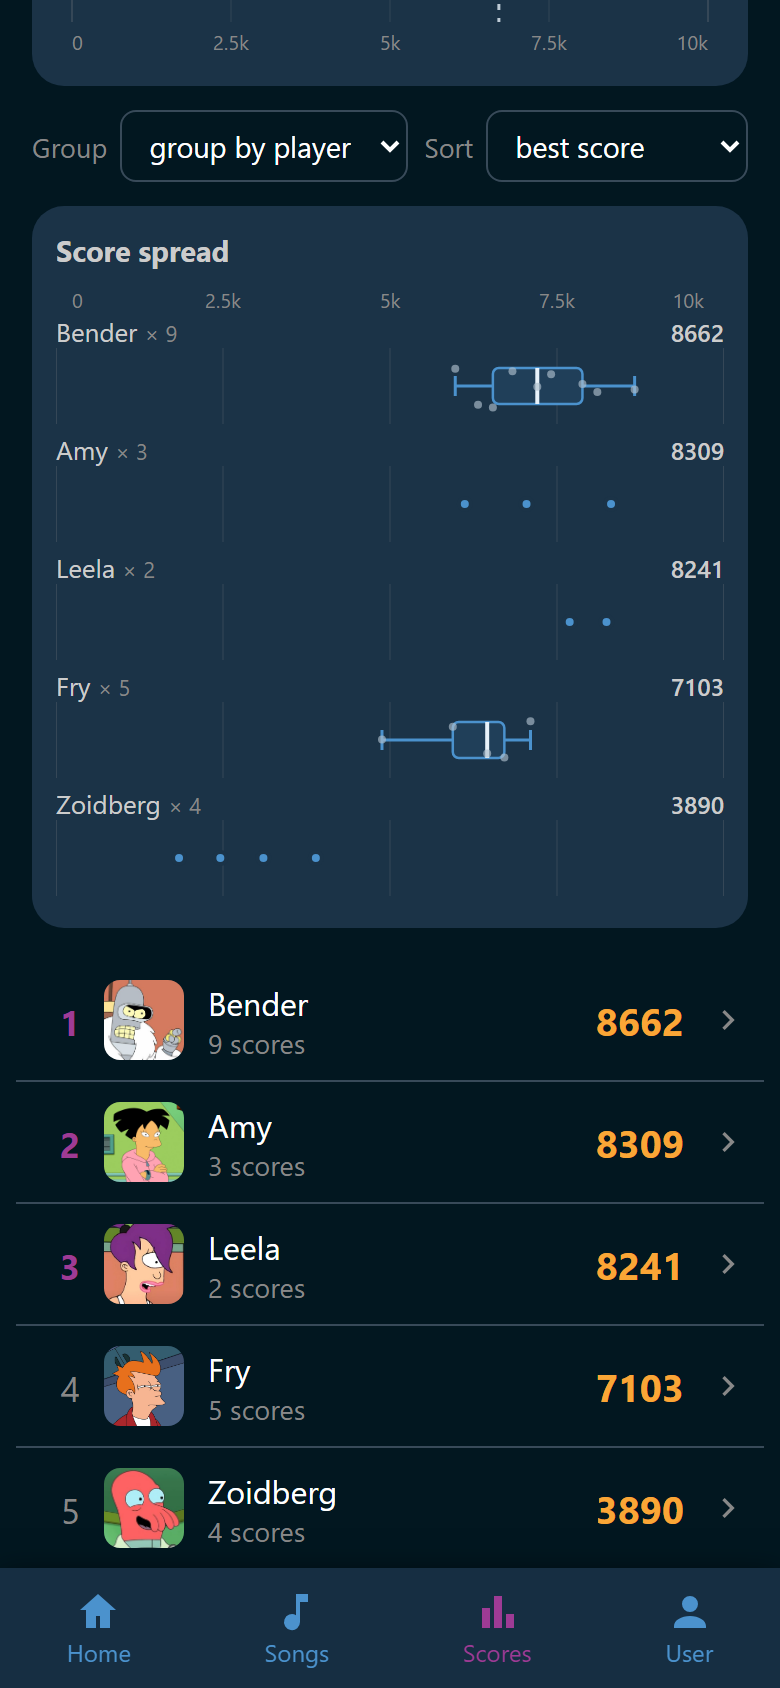
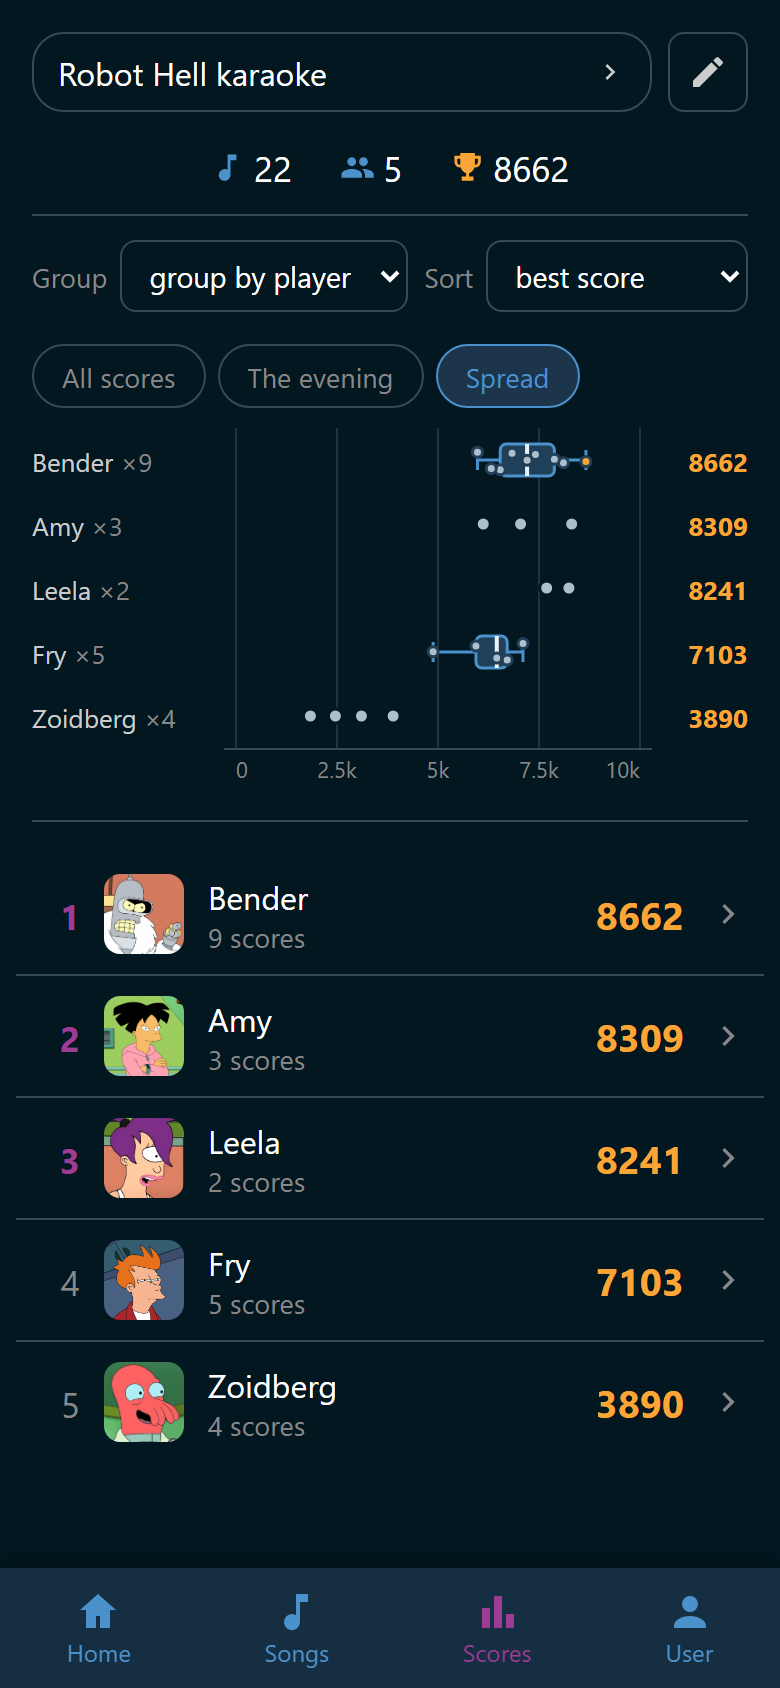
docs(scores): describe the one flat chart area and retake its screenshots
The UI guidelines drop the scores chart cards from the tile list and
describe the switcher; the party, your-scores and song pages follow the
new layout; the scores-spread capture clicks the Spread pill. The
party, spread and user-stats screenshots are retaken.

diff --git a/docs/screenshots/capture.py b/docs/screenshots/capture.py
@@ -693,10 +693,9 @@ ROWS: dict[str, Row] = {
         route="/scores",
         steps=(
             (
-                # Ungrouped, which is the picture this row is of: the page opens grouped by
-                # player, and the spread card that grouping brings with it fills the screen
-                # between the strip chart and the score rows. Grouped by player is the next
-                # row's own picture.
+                # Ungrouped, which is the picture this row is of: the plain All scores strip
+                # with the evening beside it and no Spread pill. Grouped by player, with
+                # Spread picked, is the next row's own picture.
                 'setValue(qa(".scores-control select")[0], "none")',
                 'qa(".scores-control select")[0].value === "none"',
             ),
@@ -708,8 +707,15 @@ ROWS: dict[str, Row] = {
         identity="host",
         viewport="phone",
         route="/scores",
+        steps=(
+            (
+                # The chart area opens on All scores; the spread is the third pill.
+                "click(q('.scores-chart-switch input[value=\"spread\"]'))",
+                'q(".spread-rows") && qa(".spread-row").length >= 2',
+            ),
+        ),
         ready='q(".spread-rows") && qa(".spread-row").length >= 2',
-        scroll='show(byText(".scores-chart-title", "Score spread").closest(".scores-chart"))',
+        scroll='show(q(".scores-chart"))',
     ),
     "user": Row(
         identity="Bender",

diff --git a/docs/user/scores/party.md b/docs/user/scores/party.md
@@ -81,30 +81,10 @@ If more songs were started than were scored, the **Sings** word says so. It
 reads "Sings: 2 scored of 4 started". A song that was stopped early is a sing
 with no score.
 
-## The whole party in one picture
-
-Under the figures stands a card with two views. Two scores are enough to draw
-it.
-
-- **All scores** puts every score of the party on one scale from 0 to 10000,
-  one dot each. Two dots that came out nearly the same step aside instead of
-  hiding each other. The dashed line is the party's median. The best score is
-  gold, with its number and its singer beside it.
-- **The evening** spreads the same scores over the clock, so a warm-up and a
-  late run are both visible. The five singers with the best scores get a color
-  each, named in the legend above. Everybody else shares gray and is counted
-  as "N more".
-
-Rest the pointer on a dot to read the singer, the song, the score, and the
-time. On a phone, tap near a dot instead. Tap it again, or anywhere beside the
-dots, to put the label away.
-
-**All parties** and **All my scores** are no single evening, so that card shows
-**All scores** alone. Its labels carry the date as well as the time.
-
 ## Group and sort
 
-Two quiet selects sit under the picture and rearrange everything below them.
+Two quiet selects sit under the figures and rearrange everything below them:
+the charts and the list.
 
 **Group** decides what a row stands for.
 
@@ -119,16 +99,32 @@ Two quiet selects sit under the picture and rearrange everything below them.
 evening. The number at the right of a row is the one being sorted on. Under
 **alphabetically** and **chronological** the rows show the best score.
 
-## Score spread
+## The charts
 
-With two groups or more, a **Score spread** card draws the first eight rows of
-the list. They keep the order the list has, one full-width line each. Ungrouped
-the card stays away, because the picture at the top already shows every score.
+Under the selects stands one chart, with up to three views to switch between.
+Two scores are enough to draw it. Tap a view's name to switch. The view you
+pick stays picked when you open another party.
 
-![The Score spread card grouped by player, with a box for Bender and for Fry and plain dots for Amy, Leela, and Zoidberg](../assets/screenshots/scores/scores-spread.png){ width="320" loading=lazy }
+- **All scores** puts every score of the party on one scale from 0 to 10000,
+  one gray dot each. Two dots that came out nearly the same step aside instead
+  of hiding each other. The dashed line is the party's median, and the gold dot
+  is the best score. The line above the chart gives both numbers and names the
+  singer of the best one.
+- **The evening** spreads the same scores over the clock, so a warm-up and a
+  late run are both visible. The five singers with the best scores get a color
+  each, named in the legend above. Everybody else shares gray and is counted
+  as "N more".
+- **Spread** draws the first eight rows of the list, in the order the list has.
+  Each line starts with the singer or the song, and ends with that row's best
+  score. It is there only while the list is grouped and has two rows or more.
+  Ungrouped, **All scores** already shows every score.
+
+![The Spread view grouped by player, with a box for Bender and for Fry, plain dots for Amy, Leela, and Zoidberg, and each singer's best at the right](../assets/screenshots/scores/scores-spread.png){ width="320" loading=lazy }
 /// caption
 Bender's nine scores earn a box, and Leela's two get plain dots instead.
 ///
+
+In **Spread**:
 
 - A singer with five scores or more gets a box plot. The box holds the middle
   half of their scores, the line in it is the median, and the whiskers reach
@@ -139,8 +135,14 @@ Bender's nine scores earn a box, and Leela's two get plain dots instead.
 - A song is usually one performance, so its line shows one mark per score,
   wearing the singer's initial. From eight scores on, the initials give way to
   plain dots.
+- The party's best score is gold here too.
 
-Every mark here answers the pointer or a tap too.
+Rest the pointer on a mark to read the singer, the song, the score, and the
+time. On a phone, tap near a mark instead. Tap it again, or anywhere beside the
+marks, to put the label away.
+
+**All parties** and **All my scores** are no single evening, so they offer no
+**The evening**. Their labels carry the date as well as the time.
 
 ## The ranking
 

diff --git a/docs/dev/documentation.md b/docs/dev/documentation.md
@@ -535,7 +535,7 @@ about, and the **Must be visible** column names that part alone.
 | `tag-editor` | `tags/index.md` | `/user/tags/:id` | An existing tag with people rows | 390x844 | The **Permissions** matrix and the **Specific people** row |
 | `built-in-tags` | `tags/built-in.md` | `/user/tags/decade` | The Decade built-in | 390x844 | The reduced editor and the line saying why it is reduced |
 | `scores-party` | `scores/party.md` | `/scores` | One party, 23 scores, five singers | 390x844 | The party selector at the top, the strip chart, the score rows |
-| `scores-spread` | `scores/party.md` | `/scores` | Same party, grouped by player | 390x844 | The spread card with a box row and a stagger row |
+| `scores-spread` | `scores/party.md` | `/scores` | Same party, grouped by player, **Spread** picked | 390x844 | The **Spread** view with a box row, a plain-dot row, and the gold best column |
 | `user` | `scores/your-scores.md` | `/user` | Signed in as Bender | 390x844 | Identity tile, the stat bar, the histogram |
 | `user-stats` | `scores/your-scores.md` | `/user/stats` | Bender's own record across both seeded parties | 390x844 | The **Your scores** header, the charts of his own record |
 | `user-achievements` | `achievements/index.md` | `/user` | Signed in as Fry, whose earned badges leave room for a bar below them | 390x844 | The open badge strip, its count, one row with a progress bar |

diff --git a/docs/user/scores/your-scores.md b/docs/user/scores/your-scores.md
@@ -45,10 +45,11 @@ One row is one song you sang, so the only control is **Sort**:
 There is no **chronological** here, because a row is a song rather than a
 moment in one evening.
 
-From two scores on, the same picture the **Scores** tab leads with is drawn
-over your whole record. Every score is one dot, your best is gold, and the
-dashed line is your median. Its labels carry the day as well as the time, so
-two runs of one song months apart still read apart.
+From two scores on, the **All scores** chart of the **Scores** tab is drawn
+under the select, over your whole record. Every score is one dot, your best is
+gold, and the dashed line is your median. The line above the chart gives your
+median and your best. Its labels carry the day as well as the time, so two
+runs of one song months apart still read apart.
 
 Tap a row for what that song adds up to. A song you sang more than once is
 headed by the same figures as the page above, minus **Songs**: every row here

diff --git a/docs/user/songs/song.md b/docs/user/songs/song.md
@@ -72,7 +72,7 @@ holds them.
 
 Under the figures stands the ranking, best first, up to ten singers deep. From
 four scores on, a picture of every score the song ever got stands between the
-two.
+two, with the median of all of them written above it.
 
 ## Tags
 
